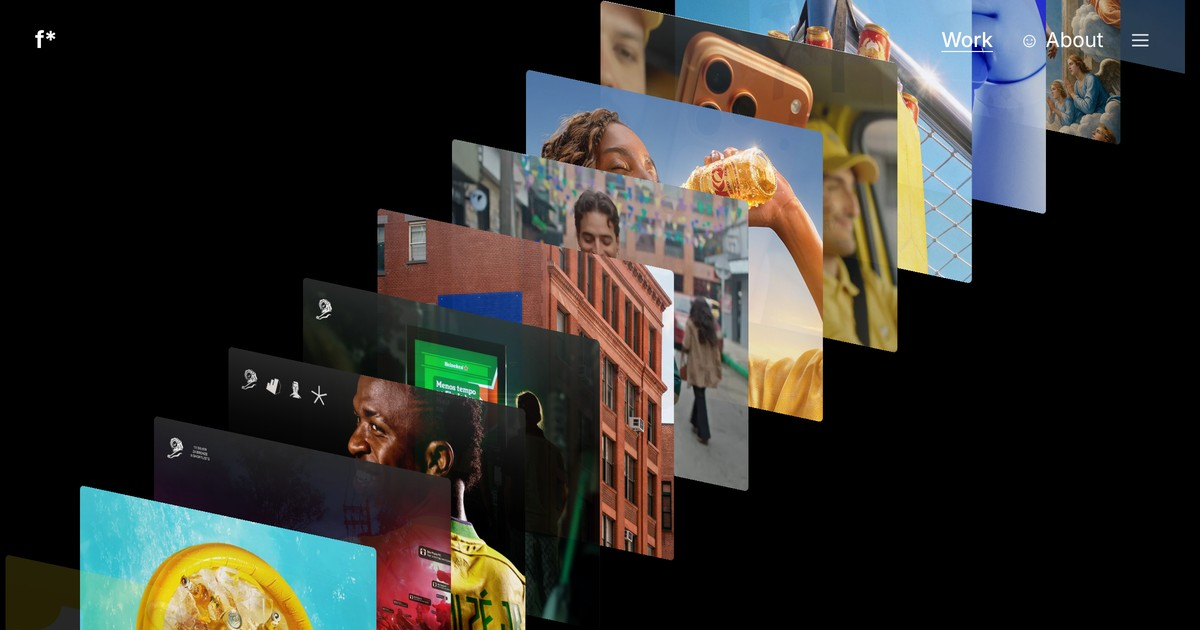
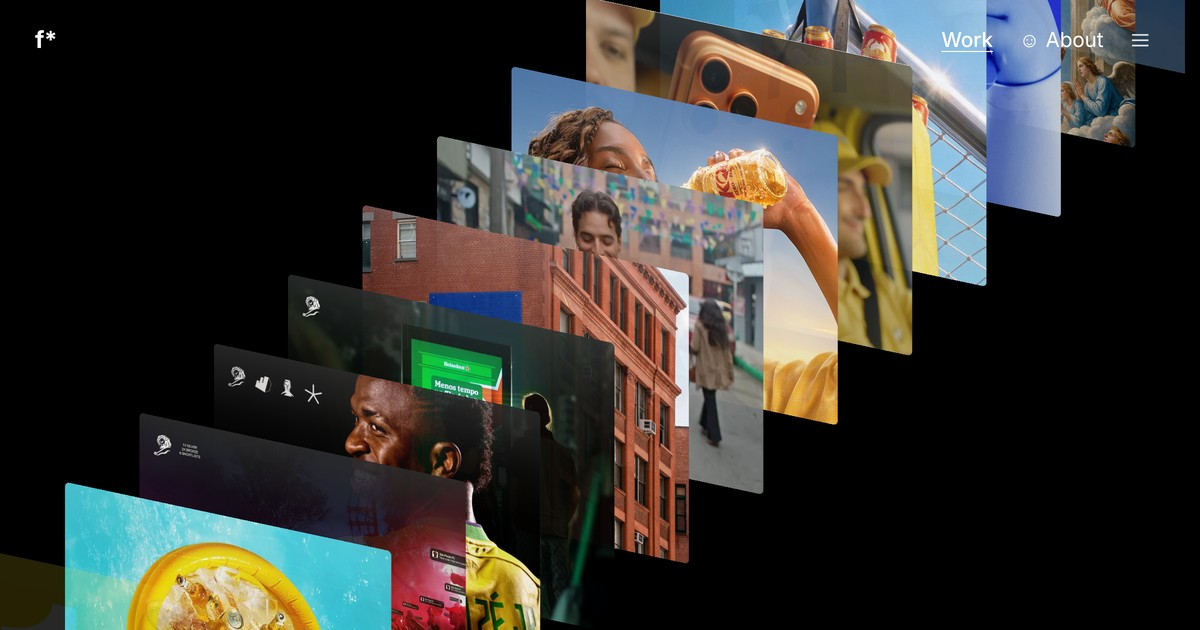
Pilha: menos compressão horizontal nas capas (scaleX 0.8 → 0.88)
Claude-Session: https://claude.ai/code/session_01Cy34iprZWCRw34QxSAkRPn

diff --git a/site/404.html b/site/404.html
@@ -9,7 +9,7 @@
 <meta property="og:description" content="Flávio Salzer is a Creative Director and Art Director based in São Paulo. Former LePub and Africa, now back at GUT. Selected work for Zé Delivery, Heineken, New Balance, Skol and more.">
 <meta property="og:type" content="website">
 <meta property="og:url" content="https://flaviosalzer.com/">
-<meta property="og:image" content="https://flaviosalzer.com/og/home.jpg?v=51b73780">
+<meta property="og:image" content="https://flaviosalzer.com/og/home.jpg?v=a953fd09">
 <meta property="og:image:width" content="1200">
 <meta property="og:image:height" content="630">
 <meta name="twitter:card" content="summary_large_image">
@@ -777,7 +777,7 @@ html,body{background:#000}
       deckEl.style.setProperty('--cw', cw + 'px');
       cur += (pos - cur) * 0.06;
       let moving = Math.abs(pos - cur) > 0.0005;
-      const SK = Math.tan(12 * Math.PI / 180), SX = 0.8, pw = cw * SX;   // near-isometric: parallel edges, no vanishing point
+      const SK = Math.tan(12 * Math.PI / 180), SX = 0.88, pw = cw * SX;   // near-isometric: parallel edges, no vanishing point
       cards.forEach((c, i) => {
         let d = ((i - cur) % N + N) % N; if (d >= N / 2) d -= N;
         lift[i] += ((i === hot ? 1 : 0) - lift[i]) * 0.14;

diff --git a/site/index.html b/site/index.html
@@ -9,7 +9,7 @@
 <meta property="og:description" content="Flávio Salzer is a Creative Director and Art Director based in São Paulo. Former LePub and Africa, now back at GUT. Selected work for Zé Delivery, Heineken, New Balance, Skol and more.">
 <meta property="og:type" content="website">
 <meta property="og:url" content="https://flaviosalzer.com/">
-<meta property="og:image" content="https://flaviosalzer.com/og/home.jpg?v=51b73780">
+<meta property="og:image" content="https://flaviosalzer.com/og/home.jpg?v=a953fd09">
 <meta property="og:image:width" content="1200">
 <meta property="og:image:height" content="630">
 <meta name="twitter:card" content="summary_large_image">
@@ -777,7 +777,7 @@ html,body{background:#000}
       deckEl.style.setProperty('--cw', cw + 'px');
       cur += (pos - cur) * 0.06;
       let moving = Math.abs(pos - cur) > 0.0005;
-      const SK = Math.tan(12 * Math.PI / 180), SX = 0.8, pw = cw * SX;   // near-isometric: parallel edges, no vanishing point
+      const SK = Math.tan(12 * Math.PI / 180), SX = 0.88, pw = cw * SX;   // near-isometric: parallel edges, no vanishing point
       cards.forEach((c, i) => {
         let d = ((i - cur) % N + N) % N; if (d >= N / 2) d -= N;
         lift[i] += ((i === hot ? 1 : 0) - lift[i]) * 0.14;

diff --git a/site/ai-assisted/index.html b/site/ai-assisted/index.html
@@ -785,7 +785,7 @@ html,body{background:#000}
       deckEl.style.setProperty('--cw', cw + 'px');
       cur += (pos - cur) * 0.06;
       let moving = Math.abs(pos - cur) > 0.0005;
-      const SK = Math.tan(12 * Math.PI / 180), SX = 0.8, pw = cw * SX;   // near-isometric: parallel edges, no vanishing point
+      const SK = Math.tan(12 * Math.PI / 180), SX = 0.88, pw = cw * SX;   // near-isometric: parallel edges, no vanishing point
       cards.forEach((c, i) => {
         let d = ((i - cur) % N + N) % N; if (d >= N / 2) d -= N;
         lift[i] += ((i === hot ? 1 : 0) - lift[i]) * 0.14;

diff --git a/site/ceu-azul/index.html b/site/ceu-azul/index.html
@@ -785,7 +785,7 @@ html,body{background:#000}
       deckEl.style.setProperty('--cw', cw + 'px');
       cur += (pos - cur) * 0.06;
       let moving = Math.abs(pos - cur) > 0.0005;
-      const SK = Math.tan(12 * Math.PI / 180), SX = 0.8, pw = cw * SX;   // near-isometric: parallel edges, no vanishing point
+      const SK = Math.tan(12 * Math.PI / 180), SX = 0.88, pw = cw * SX;   // near-isometric: parallel edges, no vanishing point
       cards.forEach((c, i) => {
         let d = ((i - cur) % N + N) % N; if (d >= N / 2) d -= N;
         lift[i] += ((i === hot ? 1 : 0) - lift[i]) * 0.14;

diff --git a/site/congress-league/index.html b/site/congress-league/index.html
@@ -782,7 +782,7 @@ html,body{background:#000}
       deckEl.style.setProperty('--cw', cw + 'px');
       cur += (pos - cur) * 0.06;
       let moving = Math.abs(pos - cur) > 0.0005;
-      const SK = Math.tan(12 * Math.PI / 180), SX = 0.8, pw = cw * SX;   // near-isometric: parallel edges, no vanishing point
+      const SK = Math.tan(12 * Math.PI / 180), SX = 0.88, pw = cw * SX;   // near-isometric: parallel edges, no vanishing point
       cards.forEach((c, i) => {
         let d = ((i - cur) % N + N) % N; if (d >= N / 2) d -= N;
         lift[i] += ((i === hot ? 1 : 0) - lift[i]) * 0.14;

diff --git a/site/copia-de-iphone-17pro-x-mercado-libre/index.html b/site/copia-de-iphone-17pro-x-mercado-libre/index.html
@@ -780,7 +780,7 @@ html,body{background:#000}
       deckEl.style.setProperty('--cw', cw + 'px');
       cur += (pos - cur) * 0.06;
       let moving = Math.abs(pos - cur) > 0.0005;
-      const SK = Math.tan(12 * Math.PI / 180), SX = 0.8, pw = cw * SX;   // near-isometric: parallel edges, no vanishing point
+      const SK = Math.tan(12 * Math.PI / 180), SX = 0.88, pw = cw * SX;   // near-isometric: parallel edges, no vanishing point
       cards.forEach((c, i) => {
         let d = ((i - cur) % N + N) % N; if (d >= N / 2) d -= N;
         lift[i] += ((i === hot ? 1 : 0) - lift[i]) * 0.14;

diff --git a/site/delivery-pool/index.html b/site/delivery-pool/index.html
@@ -784,7 +784,7 @@ html,body{background:#000}
       deckEl.style.setProperty('--cw', cw + 'px');
       cur += (pos - cur) * 0.06;
       let moving = Math.abs(pos - cur) > 0.0005;
-      const SK = Math.tan(12 * Math.PI / 180), SX = 0.8, pw = cw * SX;   // near-isometric: parallel edges, no vanishing point
+      const SK = Math.tan(12 * Math.PI / 180), SX = 0.88, pw = cw * SX;   // near-isometric: parallel edges, no vanishing point
       cards.forEach((c, i) => {
         let d = ((i - cur) % N + N) % N; if (d >= N / 2) d -= N;
         lift[i] += ((i === hot ? 1 : 0) - lift[i]) * 0.14;

diff --git a/site/finishline-club/index.html b/site/finishline-club/index.html
@@ -792,7 +792,7 @@ html,body{background:#000}
       deckEl.style.setProperty('--cw', cw + 'px');
       cur += (pos - cur) * 0.06;
       let moving = Math.abs(pos - cur) > 0.0005;
-      const SK = Math.tan(12 * Math.PI / 180), SX = 0.8, pw = cw * SX;   // near-isometric: parallel edges, no vanishing point
+      const SK = Math.tan(12 * Math.PI / 180), SX = 0.88, pw = cw * SX;   // near-isometric: parallel edges, no vanishing point
       cards.forEach((c, i) => {
         let d = ((i - cur) % N + N) % N; if (d >= N / 2) d -= N;
         lift[i] += ((i === hot ? 1 : 0) - lift[i]) * 0.14;

diff --git a/site/flavio/index.html b/site/flavio/index.html
@@ -777,7 +777,7 @@ html,body{background:#000}
       deckEl.style.setProperty('--cw', cw + 'px');
       cur += (pos - cur) * 0.06;
       let moving = Math.abs(pos - cur) > 0.0005;
-      const SK = Math.tan(12 * Math.PI / 180), SX = 0.8, pw = cw * SX;   // near-isometric: parallel edges, no vanishing point
+      const SK = Math.tan(12 * Math.PI / 180), SX = 0.88, pw = cw * SX;   // near-isometric: parallel edges, no vanishing point
       cards.forEach((c, i) => {
         let d = ((i - cur) % N + N) % N; if (d >= N / 2) d -= N;
         lift[i] += ((i === hot ? 1 : 0) - lift[i]) * 0.14;

diff --git a/site/flexmode/index.html b/site/flexmode/index.html
@@ -778,7 +778,7 @@ html,body{background:#000}
       deckEl.style.setProperty('--cw', cw + 'px');
       cur += (pos - cur) * 0.06;
       let moving = Math.abs(pos - cur) > 0.0005;
-      const SK = Math.tan(12 * Math.PI / 180), SX = 0.8, pw = cw * SX;   // near-isometric: parallel edges, no vanishing point
+      const SK = Math.tan(12 * Math.PI / 180), SX = 0.88, pw = cw * SX;   // near-isometric: parallel edges, no vanishing point
       cards.forEach((c, i) => {
         let d = ((i - cur) % N + N) % N; if (d >= N / 2) d -= N;
         lift[i] += ((i === hot ? 1 : 0) - lift[i]) * 0.14;

diff --git a/site/followers/index.html b/site/followers/index.html
@@ -784,7 +784,7 @@ html,body{background:#000}
       deckEl.style.setProperty('--cw', cw + 'px');
       cur += (pos - cur) * 0.06;
       let moving = Math.abs(pos - cur) > 0.0005;
-      const SK = Math.tan(12 * Math.PI / 180), SX = 0.8, pw = cw * SX;   // near-isometric: parallel edges, no vanishing point
+      const SK = Math.tan(12 * Math.PI / 180), SX = 0.88, pw = cw * SX;   // near-isometric: parallel edges, no vanishing point
       cards.forEach((c, i) => {
         let d = ((i - cur) % N + N) % N; if (d >= N / 2) d -= N;
         lift[i] += ((i === hot ? 1 : 0) - lift[i]) * 0.14;

diff --git a/site/hh-virtual-skol/index.html b/site/hh-virtual-skol/index.html
@@ -785,7 +785,7 @@ html,body{background:#000}
       deckEl.style.setProperty('--cw', cw + 'px');
       cur += (pos - cur) * 0.06;
       let moving = Math.abs(pos - cur) > 0.0005;
-      const SK = Math.tan(12 * Math.PI / 180), SX = 0.8, pw = cw * SX;   // near-isometric: parallel edges, no vanishing point
+      const SK = Math.tan(12 * Math.PI / 180), SX = 0.88, pw = cw * SX;   // near-isometric: parallel edges, no vanishing point
       cards.forEach((c, i) => {
         let d = ((i - cur) % N + N) % N; if (d >= N / 2) d -= N;
         lift[i] += ((i === hot ? 1 : 0) - lift[i]) * 0.14;
